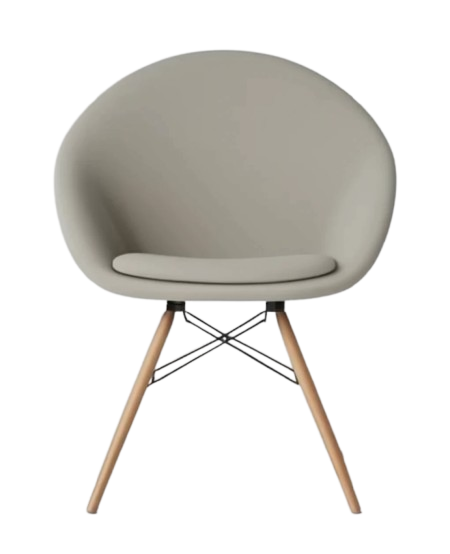
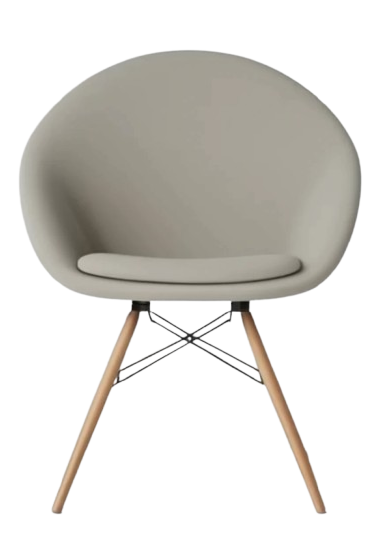
minor changes

Changed region(s): [[0.0289, 0.0896, 0.9553, 0.9552], [0.4053, 0.0896, 0.6079, 0.1194], [0.3184, 0.0896, 0.3474, 0.1194]]

diff --git a/Siya.css b/Siya.css
@@ -6,15 +6,26 @@
 
 .hero-section{
     background-color: #eeeeef;
-    width:100%;  
+    max-width:100%;  
     display:flex;
     justify-content: center;
     height:550px;
     align-items: center;
 }
+
+.hero-img{
+    width: 50%;
+    display: flex;
+    align-items: center;
+    justify-content: flex-end;
+    padding: 2rem;
+    height: 94vh;
+}
+
 .hero-img img{
-    height:550px;
-    width:550px;
+    height:80%;
+    max-width: 100%;
+    object-fit: contain ;
 }
 
 .text1{
@@ -214,7 +225,10 @@
     font-weight: 500;
     border:2px solid #96B76C;
 }
-
+.hero-text{
+    min-width: 50%;
+    padding: 2rem;
+}
 /*Subscribe part */
 .subscribe{
     display:flex;
@@ -242,6 +256,14 @@
 .subs-text p {
     color:#757575;
 }
+.text3, .text2{
+    line-height: 2.3rem;
+}
+.product>*{
+    display: flex;
+    flex-direction: column;
+}
+
 @media(max-width:1231px){
     .product-imgs{
         flex-wrap:wrap;
@@ -257,6 +279,40 @@
         width:720px;
         margin-top:2rem;
         margin-left:2rem;
+    }
+}
+
+@media screen and (max-width: 992px) {
+    br:nth-last-of-type(1){
+        display: none;
+    }
+    .hero-section{
+        height: min-content;
+    }
+    .hero-img{
+        height: auto;
+        max-height: 100%;
+    }
+    .text1{
+        font-size: 2.5vw;
+    }
+    .text2, .text3{
+        font-size: 7.5vw;
+        line-height: 6.5vw;
+    }
+    .text4{
+        font-size: 3vw;
+    }
+    .text5{
+        font-size: 2.4vw;;
+    }
+    .hero-btn{
+        font-size: 2.4vw;
+        width: max-content;
+        padding: 1vw 2vw;
+    }
+    .product {
+        height: max-content !important;
     }
 }
 
@@ -286,6 +342,7 @@
     .img2{
         align-self: center;
     }
+    
 }
 @media(max-width:1024px){
     .hero-icons{

diff --git a/Taran.css b/Taran.css
@@ -307,11 +307,11 @@ body {
 }
 
 .like {
-    transition: 0.4s;
+    transition: 0.4s ease opacity, 0.2s ease background;
 }
 
 .expand {
-    transition: 0.8s;
+    transition: 0.8s ease opacity, 0.2s ease background;
 }
 
 .like:hover,
@@ -351,7 +351,8 @@ body {
     opacity: 0;
 }
 
-.prev, .next {
+.prev,
+.next {
     position: absolute;
     left: 1rem;
     top: 50%;
@@ -361,26 +362,30 @@ body {
     padding: 1rem;
     border-radius: 0.3rem;
     aspect-ratio: 1;
-    border:  0.1rem solid rgba(128, 128, 128, 0.188);
+    border: 0.1rem solid rgba(128, 128, 128, 0.188);
     display: flex;
     align-items: center;
     justify-content: center;
 }
 
-.next{
+.next {
     right: 1rem;
     left: unset;
 }
 
-.prev:hover, .next:hover{
+.prev:hover,
+.next:hover {
     background: rgb(150, 183, 108);
     color: #fff;
     cursor: pointer;
 }
-.card-img{
+
+.card-img {
     display: flex;
     flex-grow: 1;
+    /* width: 100%; */
 }
+
 .car1 {
     position: relative;
 }
@@ -442,28 +447,33 @@ body {
         width: 41vw;
         /* max-width: 40vw; */
     }
-    .carnav{
+
+    .carnav {
         flex-direction: column;
         gap: 1rem;
     }
-    .cardTray{
+
+    .cardTray {
         padding-inline: 3rem;
     }
 }
 
 @media screen and (max-width: 576px) {
 
-    .cardTray{
+    .cardTray {
         padding-inline: 1rem;
-        
+
     }
+
     .card-product {
         min-width: 98vw;
         max-width: 98vw;
     }
-    .carnav{
+
+    .carnav {
         padding: 1rem;
     }
+
     #logo,
     .menu {
         font-size: 1.4rem;
@@ -475,5 +485,10 @@ body {
 
     .top .nav-link {
         padding: 1rem;
+    }
+}
+@media screen and (min-width: 992px) {
+    .mobmenu{
+        display: none;
     }
 }
